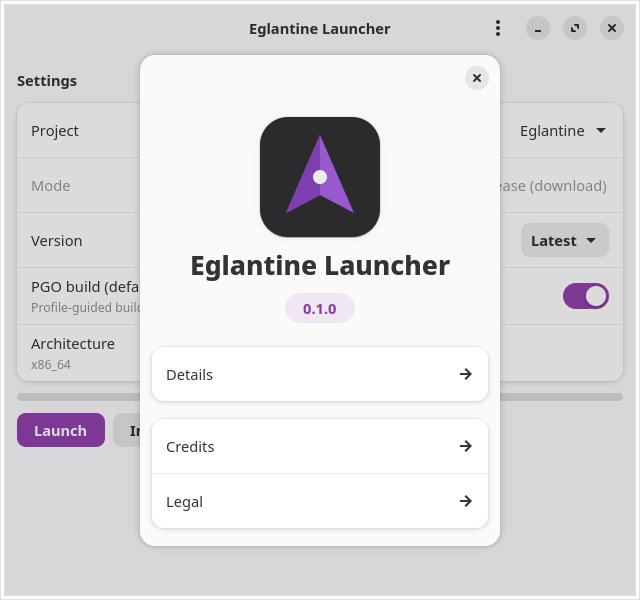
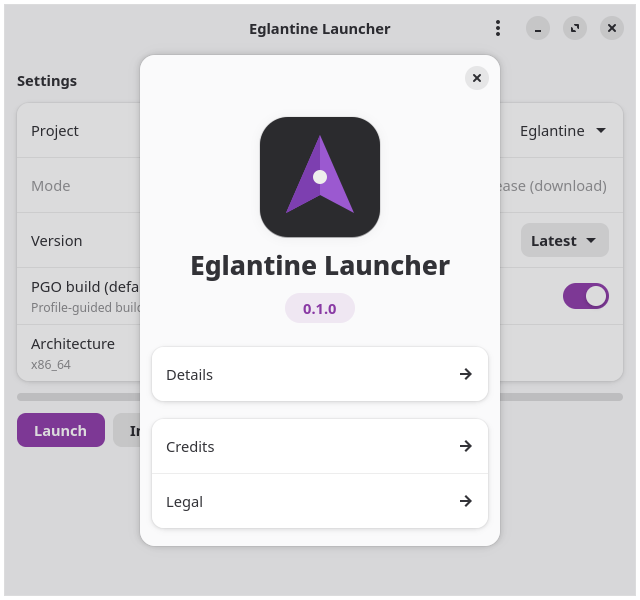
feat: scripted screenshots with transparency

Changed region(s): [[0.0, 0.99, 1.0, 1.0], [0.9688, 0.0, 1.0, 0.03], [0.0, 0.0, 0.0312, 0.03]]

diff --git a/scripts/shot_backdrop.py b/scripts/shot_backdrop.py
@@ -1,0 +1,31 @@
+"""Fullscreen magenta backdrop for screenshots (override-redirect, kept at bottom)."""
+
+import sys
+import time
+
+from Xlib import X, display
+
+d = display.Display(sys.argv[1] if len(sys.argv) > 1 else ":99")
+screen = d.screen()
+root = screen.root
+magenta = screen.default_colormap.alloc_named_color("#FF00FF").pixel
+geom = root.get_geometry()
+win = root.create_window(
+    0,
+    0,
+    geom.width,
+    geom.height,
+    0,
+    screen.root_depth,
+    X.InputOutput,
+    X.CopyFromParent,
+    background_pixel=magenta,
+    override_redirect=True,
+)
+win.map()
+win.configure(stack_mode=X.Below)
+d.sync()
+# stay alive until killed; re-lower if anything restacks above us is not needed
+# since app windows always stack above override-redirect windows by default
+while True:
+    time.sleep(3600)

diff --git a/scripts/shot_alpha.py b/scripts/shot_alpha.py
@@ -1,0 +1,21 @@
+"""Make near-magenta corners transparent (rounded CSD corners over backdrop)."""
+
+import sys
+
+from PIL import Image, ImageDraw
+
+MAGENTA = (255, 0, 255)
+
+
+def main(paths):
+    for path in paths:
+        img = Image.open(path).convert("RGBA")
+        w, h = img.size
+        for xy in ((0, 0), (w - 1, 0), (0, h - 1), (w - 1, h - 1)):
+            ImageDraw.floodfill(img, xy, (0, 0, 0, 0), thresh=40)
+        img.save(path)
+        print(f"alpha: {path}")
+
+
+if __name__ == "__main__":
+    main(sys.argv[1:])
